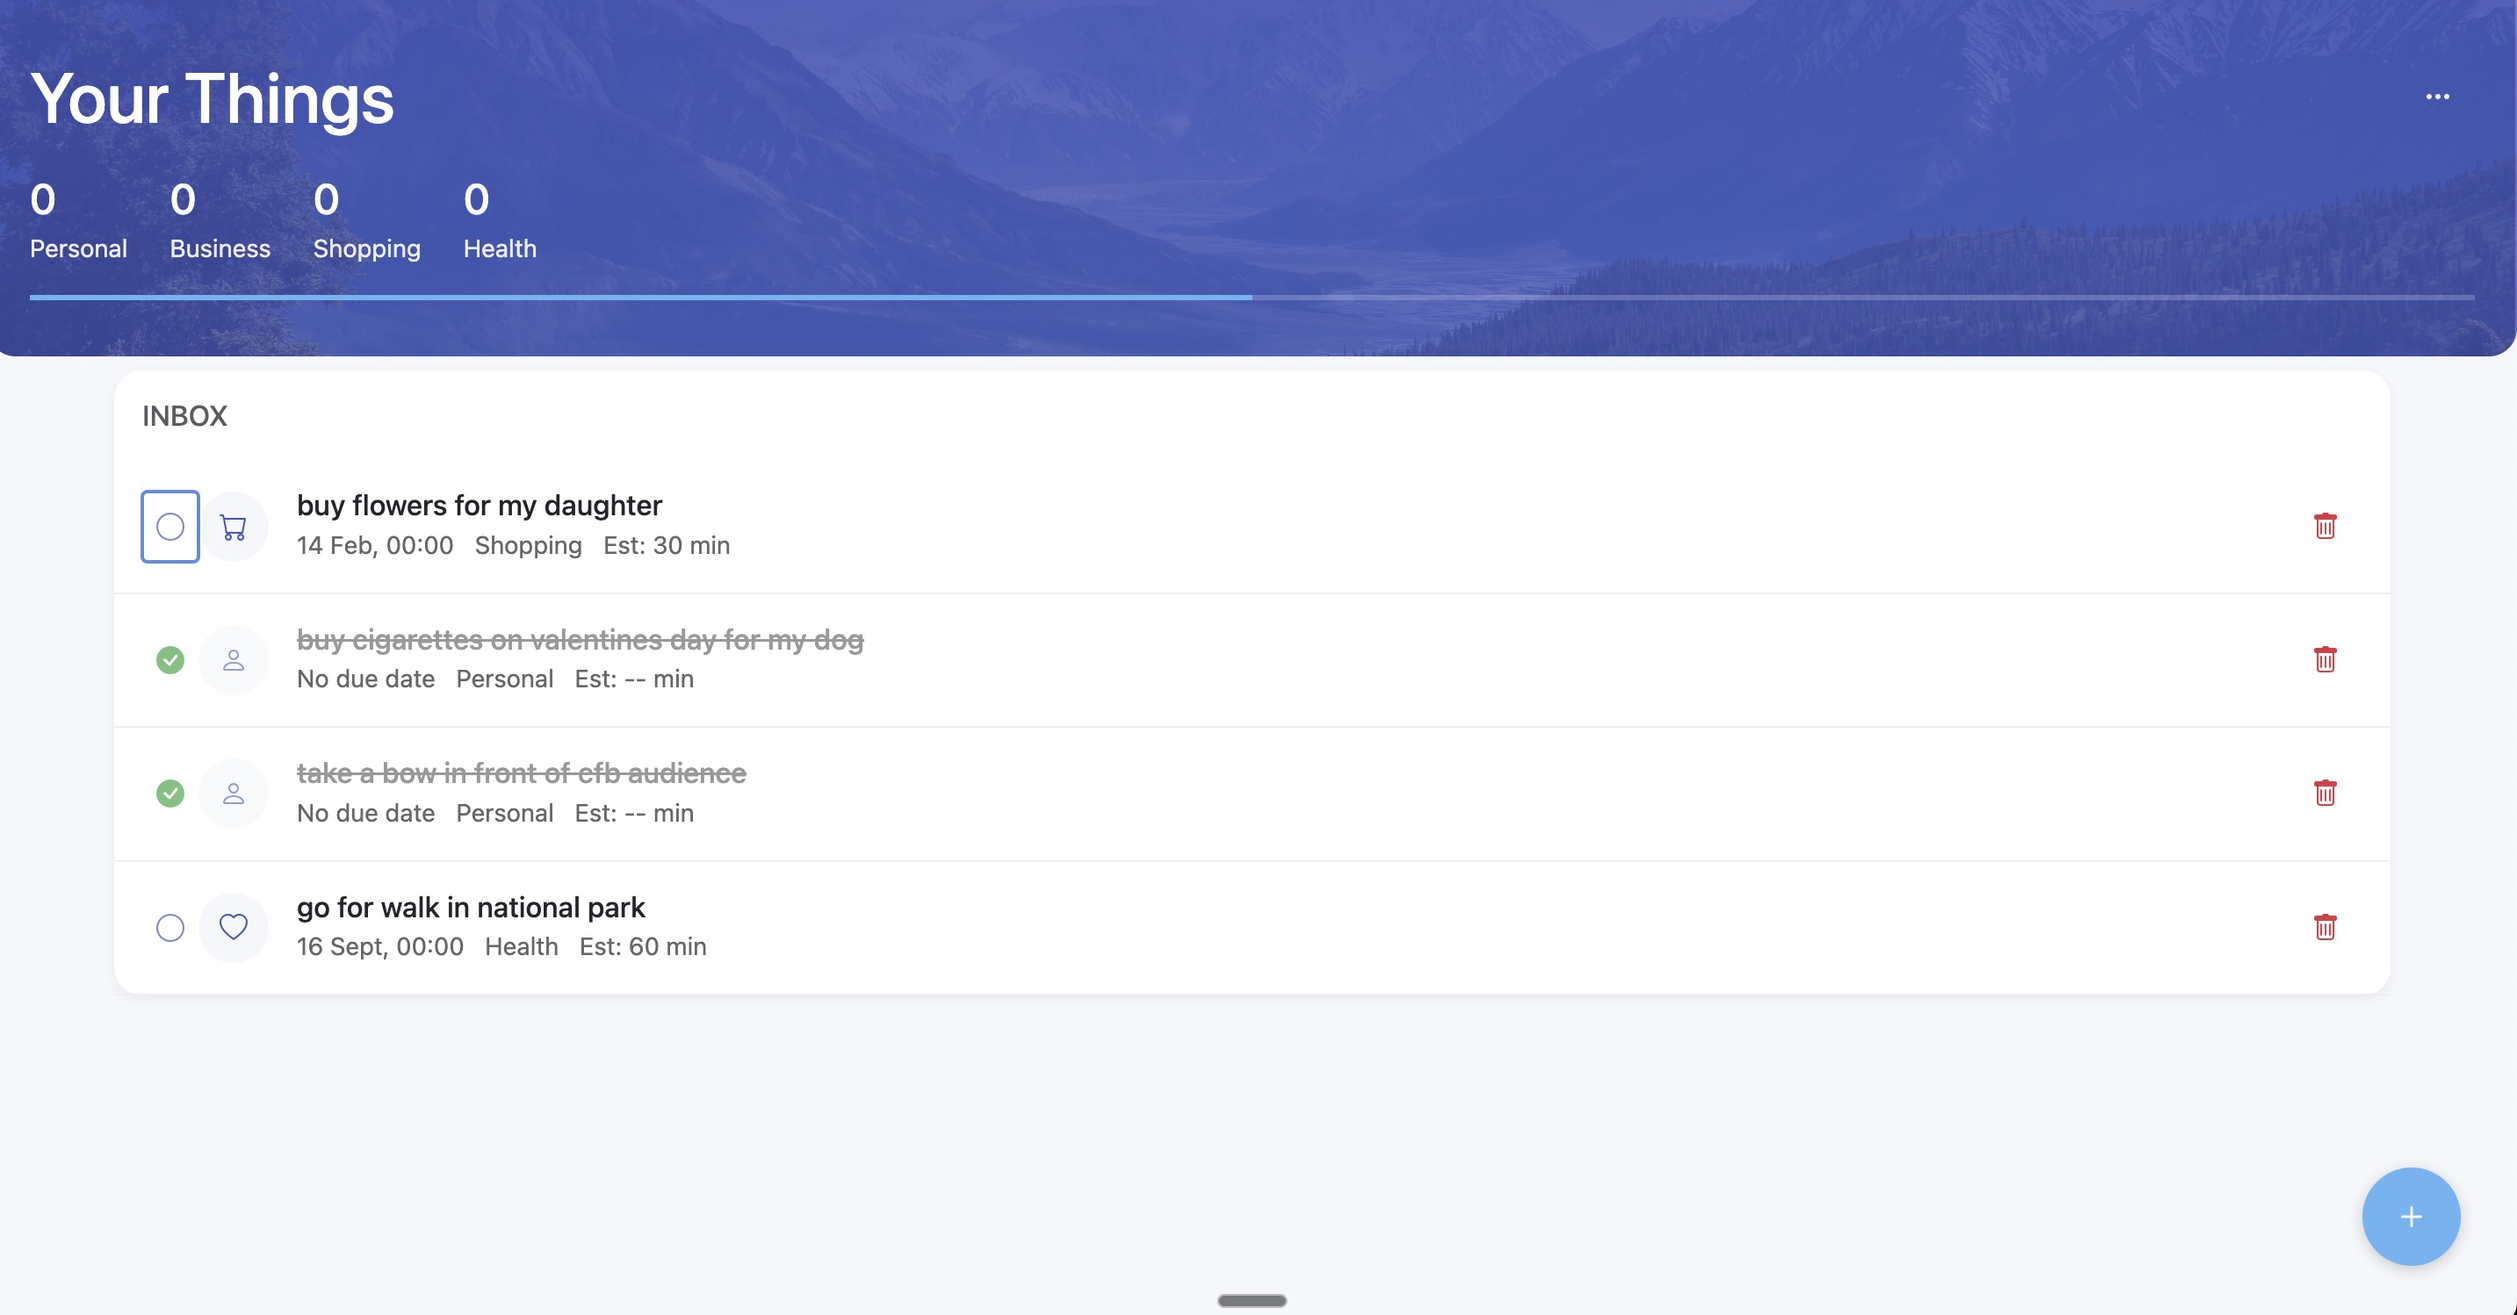
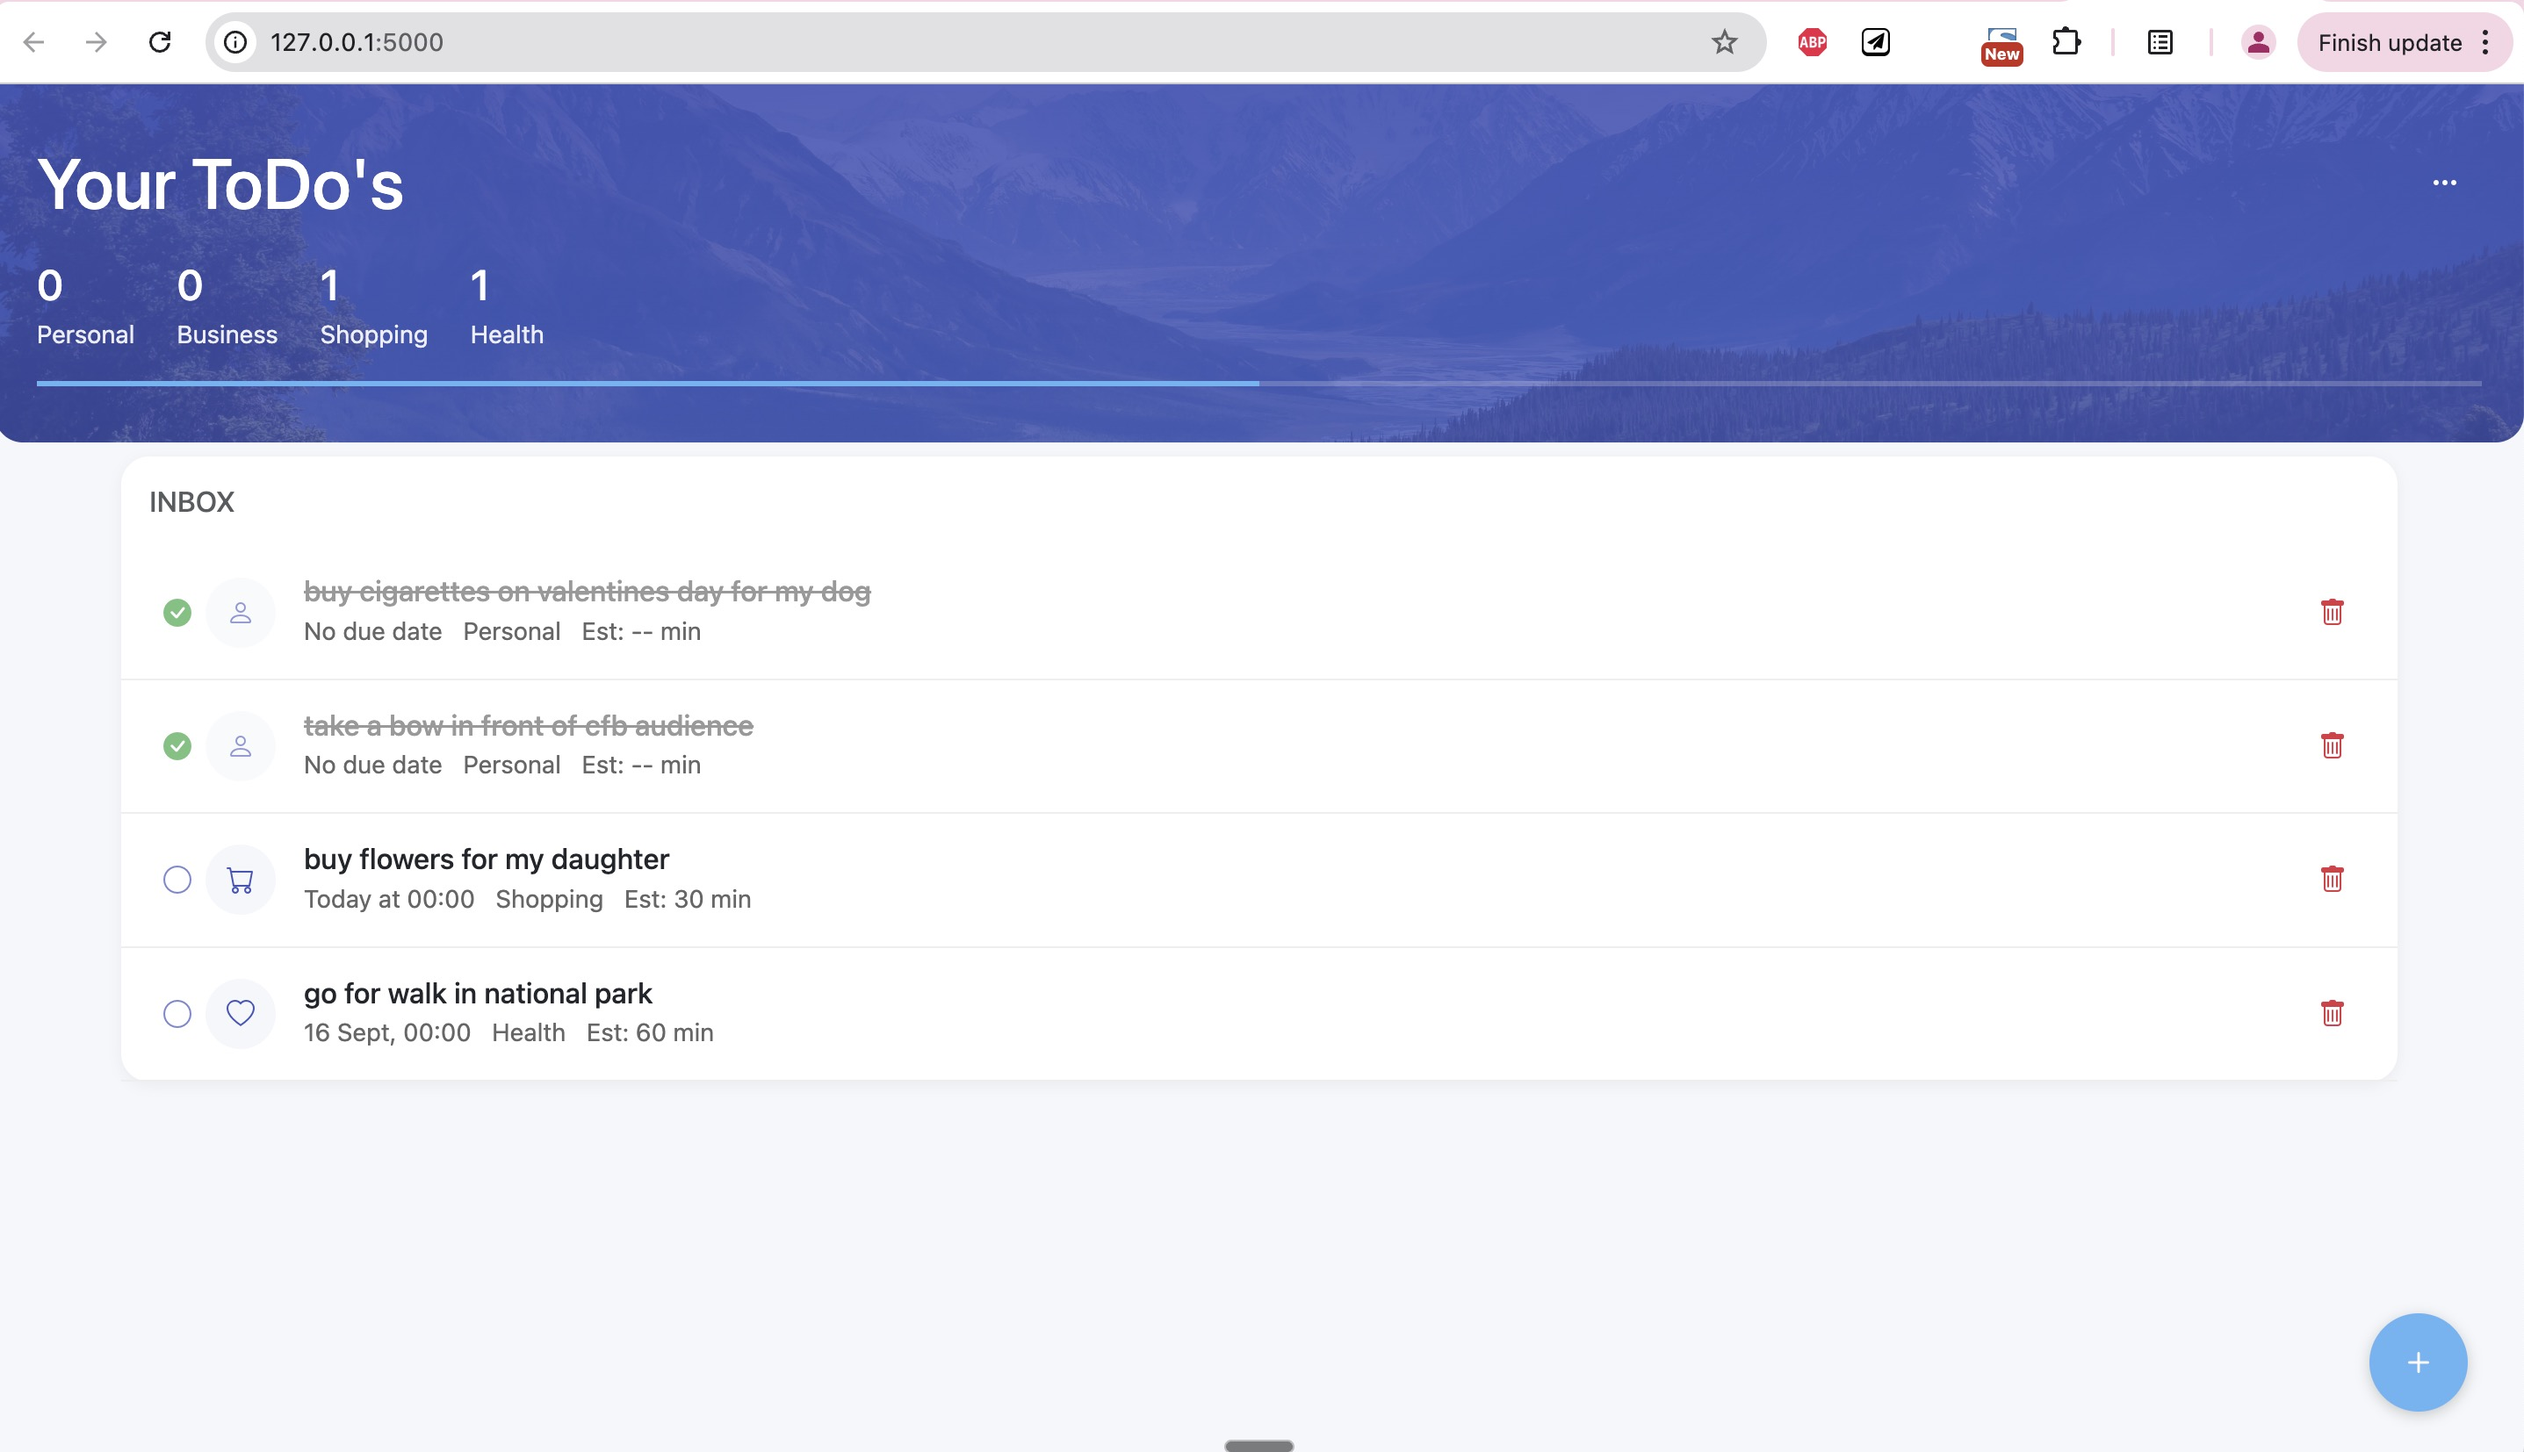
Fix to tallys

diff --git a/app/static/js/app.js b/app/static/js/app.js
@@ -72,9 +72,13 @@ document.addEventListener('DOMContentLoaded', () => {
                 });
                 
                 // Update all category counts in the header
-                Object.entries(counts).forEach(([category, count], index) => {
-                    const countEl = document.querySelector(`.task-counts .task-count:nth-child(${index + 1})`);
-                    if (countEl) countEl.textContent = count;
+                const taskCountElements = document.querySelectorAll('.task-counts > div');
+                taskCountElements.forEach(div => {
+                    const category = div.querySelector('.task-type').textContent;
+                    const countElement = div.querySelector('.task-count');
+                    if (countElement && counts.hasOwnProperty(category)) {
+                        countElement.textContent = counts[category];
+                    }
                 });
                 
                 // Update progress bar
@@ -83,8 +87,6 @@ document.addEventListener('DOMContentLoaded', () => {
                 const progress = total > 0 ? (completed / total) * 100 : 0;
                 const progressBar = document.querySelector('.progress-bar-fill');
                 if (progressBar) progressBar.style.width = `${progress}%`;
-                
-                console.log('Task counts:', counts, `Total: ${total}, Completed: ${completed}`);
             })
             .catch(error => {
                 console.error('Error updating task counts:', error);

diff --git a/app/templates/index.html b/app/templates/index.html
@@ -3,7 +3,7 @@
 <head>
     <meta charset="UTF-8">
     <meta name="viewport" content="width=device-width, initial-scale=1.0">
-    <title>Your Things</title>
+    <title>Your ToDo's</title>
     <link href="https://cdn.jsdelivr.net/npm/bootstrap@5.3.0/dist/css/bootstrap.min.css" rel="stylesheet">
     <link href="https://cdn.jsdelivr.net/npm/bootstrap-icons@1.7.2/font/bootstrap-icons.css" rel="stylesheet">
     <style>
@@ -172,7 +172,7 @@
     <!-- Header -->
     <div class="header">
         <div class="d-flex justify-content-between align-items-center">
-            <h1 class="mb-0">Your Things</h1>
+            <h1 class="mb-0">Your ToDo's</h1>
             <button class="btn text-white" type="button">
                 <i class="bi bi-three-dots"></i>
             </button>
